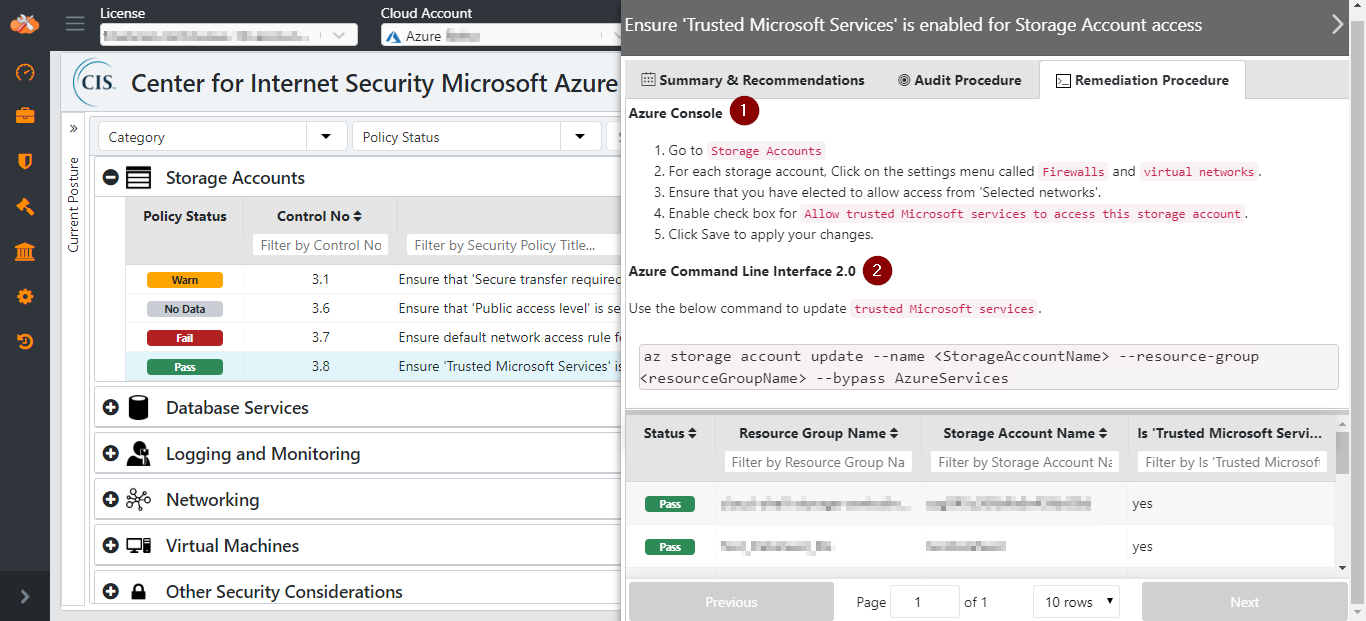
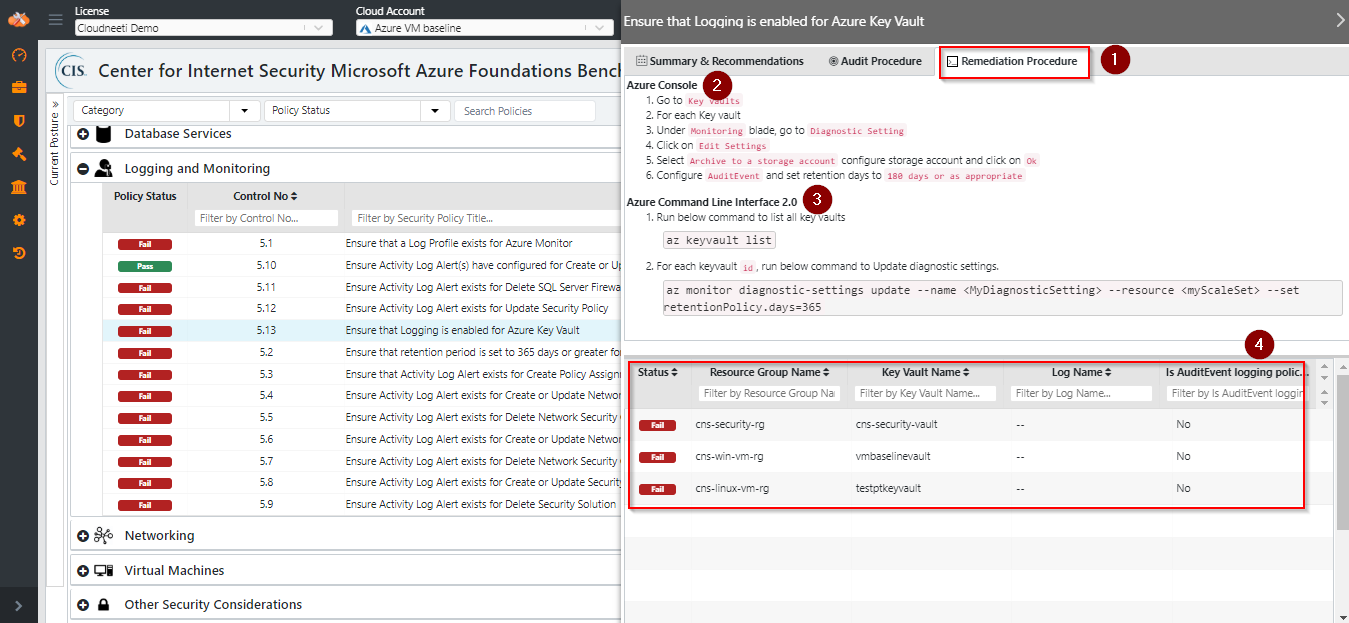
Task 12687 : Fixed Azure remediation page

diff --git a/docs/remediation/azureSubscriptionRemediation.md b/docs/remediation/azureSubscriptionRemediation.md
@@ -8,15 +8,14 @@ Remediation of Azure Resources that are non-compliant to a security policy can b
 
 Guided Remediation
 ------------------
-User can follow Remediation Procedure on [security policy](../../userGuide/securityPolicies/). Remediation procedure can be avaiable for Azure Console (1) and Azure Command Line Interface (2).
+Every [security policy](../../userGuide/securityPolicies/) has **Remediation Procedure** (1), can be  avaiable for Azure Console (2) and Azure Command Line Interface (3). Using **Remediation Procedure** (1) non-complaint resources (4) can be put in compliant mode.
 
 ![Remediation of Azure Resources](.././images/cloudneetiRemediation/Azure_Guided_Remediation.png#thumbnail_1)
 
 
 Quick Wins 
 --------------------
-Remediation policies from **Azure Security center, Logging and Monitoring** and
-**Storage and Databases** can be done using quick wins scripts. These scripts will update configurations and settings to make the Cloud account compliant for listed policies.
+Remediation policies from **Azure Security center, Logging and Monitoring** and **Storage and Databases** can be done using quick wins scripts. These scripts will update configurations and settings to make the Cloud account compliant for listed policies.
 
 | **Configuration script**       | **Category**                  | **Number of policies remediated** |
 |--------------------------------|-------------------------------|-----------------------------------|
@@ -215,29 +214,29 @@ Configure Storage Account to remediate policies [listed here ](.././azureSubscri
         </pre>
 
 
-OR To enable only https on storage account, then
-        <pre>
-	        <code>```
-                .\configure-StorageAccounts.ps1 -SubscriptionId <subscriptionId> -EnableHttps
-             ```</code>
-        </pre>
+    OR To enable only https on storage account, 
+            <pre>
+                <code>```
+                    .\configure-StorageAccounts.ps1 -SubscriptionId <subscriptionId> -EnableHttps
+                ```</code>
+            </pre>
 
-OR To enable only geo-replication setting then,
-        <pre>
-	        <code>```
-                .\configure-StorageAccounts.ps1 -SubscriptionId <subscriptionId> -EnableGeoReplication
-             ```</code>
-        </pre>
+    OR To enable only geo-replication setting,
+            <pre>
+                <code>```
+                    .\configure-StorageAccounts.ps1 -SubscriptionId <subscriptionId> -EnableGeoReplication
+                ```</code>
+            </pre>
 
-In case few storage accounts to be excluded then provide **ExcludeStorageAccounts** parameter with comma separated storage account names.
-    <pre>
-        <code>```
-        .\configure-StorageAccounts.ps1 `
-        -SubscriptionId <subscriptionId> `
-        -ExcludeStorageAccounts <excludeStorageAccounts> `
-        -All
-        ```</code>
-    </pre>
+    In case few storage accounts to be excluded then provide **ExcludeStorageAccounts** parameter with comma separated storage account names.
+        <pre>
+            <code>```
+            .\configure-StorageAccounts.ps1 `
+            -SubscriptionId <subscriptionId> `
+            -ExcludeStorageAccounts <excludeStorageAccounts> `
+            -All
+            ```</code>
+        </pre>
 
 
 Auto Remediation
